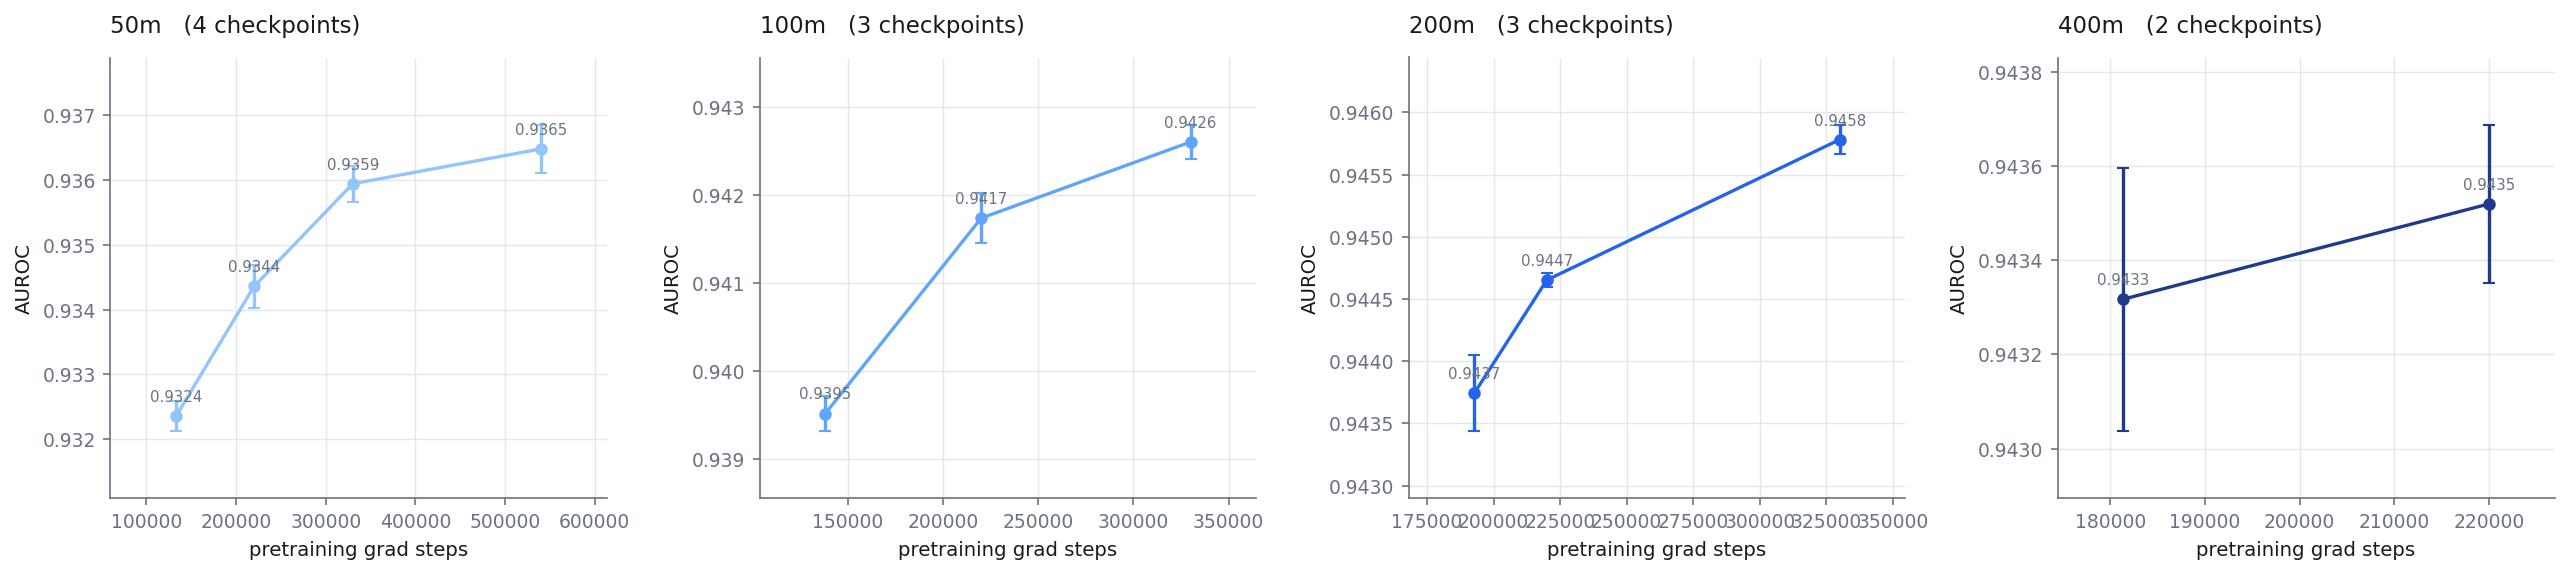
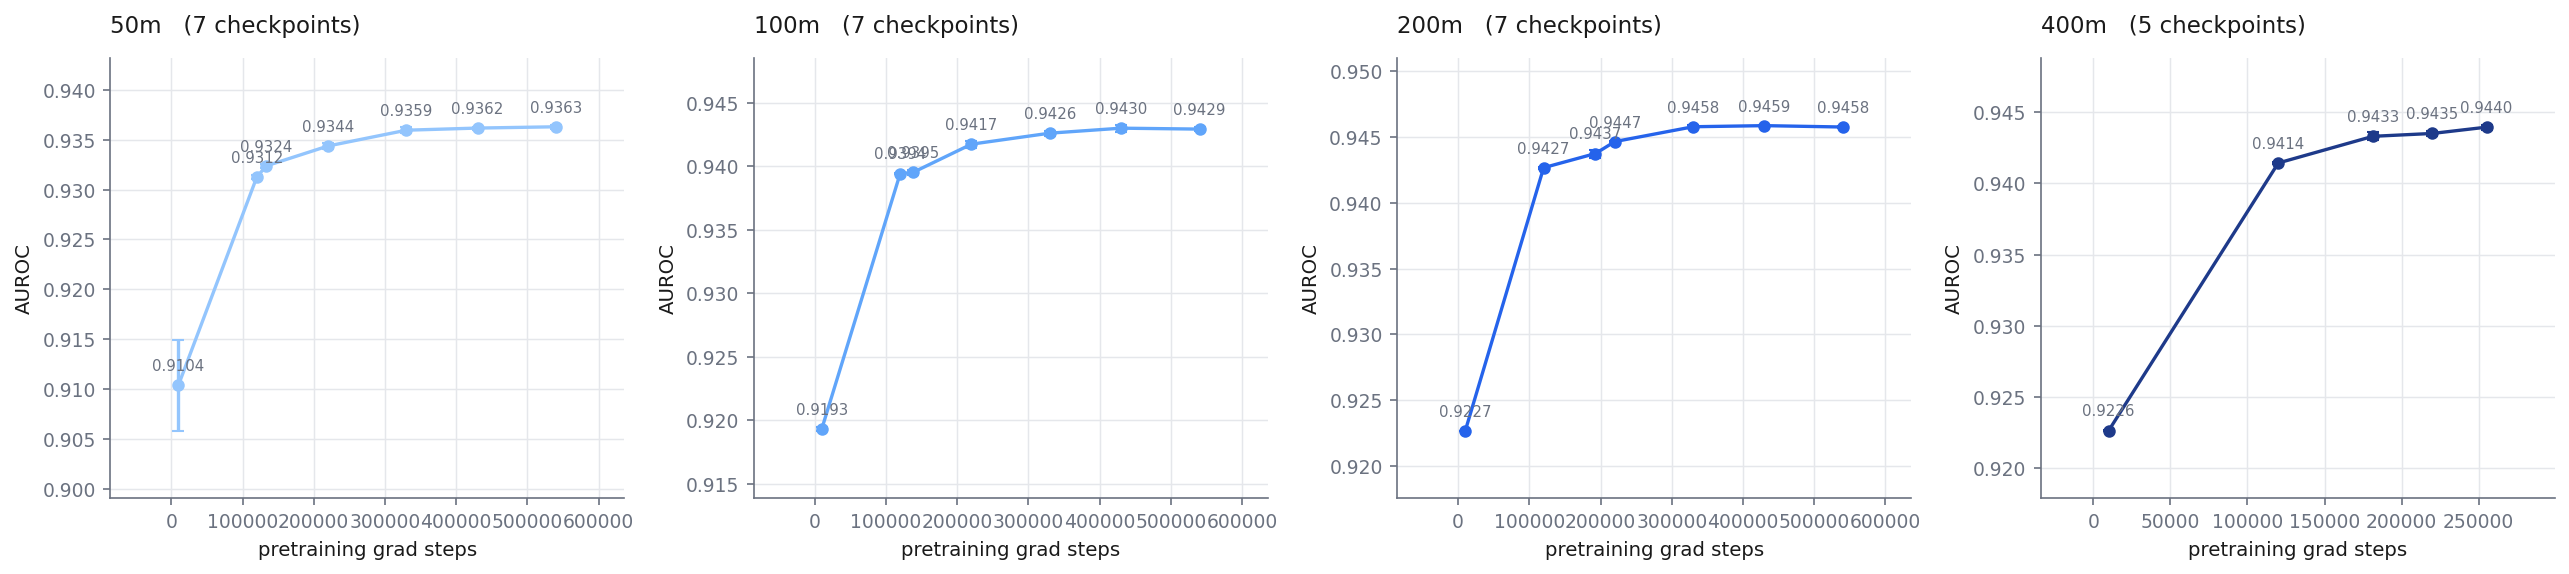
Denoise figures: AUPRC and loss, smoke runs excluded; length-generalisation eval (FT1)
Claude-Session: https://claude.ai/code/session_01ATgkXx1oRRqvzB3G8wYeta

diff --git a/msdelta/eval_denoise_length.py b/msdelta/eval_denoise_length.py
@@ -1,0 +1,119 @@
+"""Denoise performance by spectrum length, including spectra LONGER than training saw.
+
+    python -m msdelta.eval_denoise_length --models FILE --out-dir DIR [--shard I --num-shards N]
+
+Every denoise number in this project filters spectra to <= 512 peaks (max_peaks), and
+build_denoising_datasets DROPS the rest -- 13.2% of the test split (1,309 of 9,893;
+max 3,086 peaks). Nothing in the architecture caps length: peak tokens carry no absolute
+position and m/z enters only as pairwise deltas, so a trained model can be run on any
+spectrum; the cost is DeltaMZBias memory, O(peaks^2), hence batch size 1.
+
+This scores the test split with the cap raised to --max-peaks and reports every metric
+of finetune_denoise.denoise_metrics per peak-count bucket. The <=512 bucket is the
+population every published number comes from and must reproduce it -- that is the check
+on this script. PLAN.md FT1.
+
+--models: one `name path` per line, path = a saved MSDeltaForDenoising (final/).
+"""
+
+from __future__ import annotations
+
+import argparse
+import json
+import time
+from pathlib import Path
+from types import SimpleNamespace
+
+import numpy as np
+import torch
+
+BUCKETS = ((0, 512), (512, 768), (768, 1024), (1024, 1536), (1536, 1 << 30))
+
+
+def bucket_name(lo, hi):
+    return f"{lo + 1}-{hi}" if hi < (1 << 30) else f">{lo}"
+
+
+def main(argv: list[str] | None = None) -> int:
+    ap = argparse.ArgumentParser(description=__doc__,
+                                 formatter_class=argparse.RawDescriptionHelpFormatter)
+    ap.add_argument("--models", required=True)
+    ap.add_argument("--out-dir", required=True)
+    ap.add_argument("--repo", default="chrisagrams/ms-denoise-100k")
+    ap.add_argument("--split", default="test")
+    ap.add_argument("--max-peaks", type=int, default=4096)
+    ap.add_argument("--shard", type=int, default=0)
+    ap.add_argument("--num-shards", type=int, default=1)
+    cli = ap.parse_args(argv)
+
+    from datasets import load_dataset
+
+    from msdelta.finetune_denoise import denoise_metrics
+    from msdelta.modeling_msdelta import MSDeltaForDenoising
+    from msdelta.processing_msdelta import MSDeltaProcessor
+
+    device = torch.device("xpu" if torch.xpu.is_available() else "cpu")
+    models = [l.split() for l in Path(cli.models).read_text().splitlines()
+              if l.strip() and not l.startswith("#")][cli.shard::cli.num_shards]
+    out_dir = Path(cli.out_dir); out_dir.mkdir(parents=True, exist_ok=True)
+
+    raw = load_dataset(cli.repo)[cli.split]
+    raw = raw.filter(lambda e: 0 < len(e["mz"]) <= cli.max_peaks)
+    for name, path in models:
+        target = out_dir / f"{name}.json"
+        if target.exists():
+            print(f"  {name}: already scored", flush=True); continue
+        t0 = time.time()
+        processor = MSDeltaProcessor.from_pretrained(path, max_peaks=cli.max_peaks)
+        data = raw.map(lambda e: processor.process_denoising_example(
+            e["mz"], e["intensity"], e["noise"]), remove_columns=raw.column_names)
+        model = MSDeltaForDenoising.from_pretrained(path).to(device).eval()
+        per = []           # (n_peaks, logits, labels) per spectrum
+        skipped = []
+        order = np.argsort([len(m) for m in data["mz"]])   # short first; OOM only at the tail
+        with torch.no_grad():
+            for i in order:
+                row = data[int(i)]
+                n = len(row["mz"])
+                mz = torch.tensor([row["mz"]], dtype=torch.float32, device=device)
+                li = torch.tensor([row["log_intensity"]], dtype=torch.float32, device=device)
+                mask = torch.ones_like(mz, dtype=torch.long)
+                try:
+                    with torch.autocast(device_type=device.type, dtype=torch.bfloat16,
+                                        enabled=device.type == "xpu"):
+                        logits = model(mz=mz, log_intensity=li, attention_mask=mask,
+                                       return_dict=True).logits
+                except RuntimeError as error:          # out of memory at the longest
+                    skipped.append(n)
+                    print(f"  {name}: skipped a {n}-peak spectrum ({str(error)[:80]})",
+                          flush=True)
+                    if device.type == "xpu":
+                        torch.xpu.empty_cache()
+                    continue
+                per.append((n, logits.float().cpu().numpy()[0], np.asarray(row["labels"])))
+        del model
+        if device.type == "xpu":
+            torch.xpu.empty_cache()
+
+        result = {"name": name, "path": path, "max_peaks": cli.max_peaks,
+                  "skipped_lengths": skipped, "buckets": {}}
+        for lo, hi in BUCKETS + ((0, 1 << 30),):
+            rows = [(lg, lb) for n, lg, lb in per if lo < n <= hi]
+            if not rows:
+                continue
+            width = max(len(lg) for lg, _ in rows)
+            logits_2d = np.zeros((len(rows), width)); labels_2d = np.full((len(rows), width), -100.0)
+            for r, (lg, lb) in enumerate(rows):
+                logits_2d[r, :len(lg)] = lg; labels_2d[r, :len(lb)] = lb
+            m = denoise_metrics(SimpleNamespace(predictions=logits_2d, label_ids=labels_2d))
+            key = "all" if (lo, hi) == (0, 1 << 30) else bucket_name(lo, hi)
+            result["buckets"][key] = {"spectra": len(rows), **m}
+        target.write_text(json.dumps(result, indent=1))
+        b = result["buckets"]
+        print(f"  {name} ({time.time() - t0:.0f}s): " + "  ".join(
+            f"{k} AUROC {v['auroc']:.4f} (n={v['spectra']})" for k, v in b.items()), flush=True)
+    return 0
+
+
+if __name__ == "__main__":
+    raise SystemExit(main())

diff --git a/sweeps/plot_ladder.py b/sweeps/plot_ladder.py
@@ -50,6 +50,7 @@ CONFIG = {"--learning_rate": "2e-4", "--encoder_lr_scale": "0.5",
 # it "not comparable". One of its arms (0.8597) sat in the 50m@133k cell and dragged
 # that point from 0.932 to 0.927.
 EXCLUDE_JOBS = {"8840345"}
+MIN_TEST_SPECTRA = 8000   # the full test split scores 8,567 spectra
 
 
 def matches_config(text: str) -> bool:
@@ -103,6 +104,11 @@ def collect():
         except Exception:
             continue
         if "test_auroc" not in r:
+            continue
+        # Smoke runs (MAX_SAMPLES) score a ~2,000-spectrum slice of the test split, not
+        # the full ~8,567, and read ~0.05 low; they sit in the same run dirs as real arms.
+        # 8861517 (400m@430k smoke) was the only point in its cell before this.
+        if r.get("test_spectra_scored", MIN_TEST_SPECTRA) < MIN_TEST_SPECTRA:
             continue
         for k, _ in METRICS:
             if k in r:
